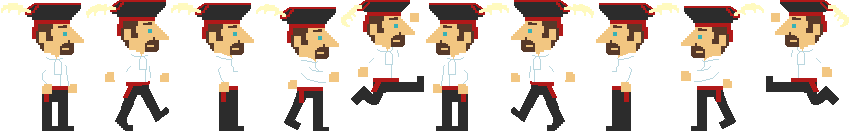
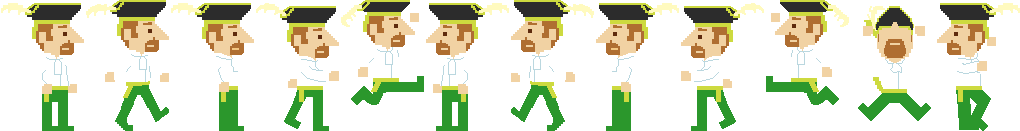
lots of new art and stuff

diff --git a/src/game.ts b/src/game.ts
@@ -4,6 +4,7 @@ import { Platform } from './objects/platform'
 import { Player } from './objects/player'
 import { WSAEINTR } from 'constants';
 import { CannonBall } from './objects/cannonBall';
+import { MainMenu } from '.mainMenu.ts';
 
 const sceneConfig: Phaser.Types.Scenes.SettingsConfig = {
   active: false,
@@ -67,7 +68,7 @@ export class GameScene extends Phaser.Scene {
   private pipes: Phaser.Physics.Arcade.StaticGroup;
   private water: Phaser.Physics.Arcade.Sprite;
   private playerHit: boolean;
-  private pow: Phaser.Physics.Arcade.Sprite;
+  private chest: Phaser.Physics.Arcade.Sprite;
   private powEnemy: Phaser.Physics.Arcade.Sprite;
 
   constructor() {
@@ -80,7 +81,7 @@ export class GameScene extends Phaser.Scene {
       'src/assets/player.png',
       { frameWidth: 83, frameHeight: 131, spacing: 2 });
     this.load.spritesheet('platformPlank',
-      'src/assets/planksquash_SpriteSheet.png',
+      'src/assets/planksquash2_SpriteSheet.png',
       { frameWidth: 32, frameHeight: 32 });
     this.load.spritesheet('cannonBall',
       'src/assets/CannonballSpriteSheet.png',
@@ -89,6 +90,8 @@ export class GameScene extends Phaser.Scene {
       { frameWidth: 83, frameHeight: 12, spacing: 2 });
     this.load.spritesheet('water', 'src/assets/waterSpritesheet.png',
       { frameWidth: 512, frameHeight: 256, spacing: 0 });
+      this.load.spritesheet('chest', 'src/assets/ChestSprites.png',
+      { frameWidth: 64, frameHeight: 61, spacing: 1 });
 
     this.load.spritesheet('octopusPink', 'src/assets/OctoSpritePink.png',
       { frameWidth: 64, frameHeight: 64, spacing: 2 });
@@ -165,11 +168,11 @@ export class GameScene extends Phaser.Scene {
     waterBody.setAllowGravity(false);
 
     //Pow water
-    this.pow = this.physics.add.sprite(200, LEVEL1_Y, 'pow');
-    this.pow.setScale(2);
-    var powBody: Phaser.Physics.Arcade.Body = <Phaser.Physics.Arcade.Body>this.pow.body;
-    powBody.setAllowGravity(false);
-    this.pow.body.immovable = true;
+    this.chest = this.physics.add.sprite(600, LEVEL1_Y, 'chest');
+    //this.chest.setScale(2);
+    var chestBody: Phaser.Physics.Arcade.Body = <Phaser.Physics.Arcade.Body>this.chest.body;
+    chestBody.setAllowGravity(false);
+    this.chest.body.immovable = true;
 
     //Pow enemey
     this.powEnemy = this.physics.add.sprite(1000, LEVEL3_Y - 40, 'pow');
@@ -210,7 +213,7 @@ export class GameScene extends Phaser.Scene {
     // collider between play and platforms
     this.physics.add.collider(this.player, this.platforms, moveWall, null, this);
     //collider between player and pow
-    this.physics.add.collider(this.player, this.pow, powFunc, null, this);
+    this.physics.add.collider(this.player, this.chest, chestFunc, null, this);
     //collider between player and enemyPow
     this.physics.add.collider(this.player, this.powEnemy, this.powEnemyFunc, null, this);
     // collider between player and water
@@ -298,6 +301,7 @@ export class GameScene extends Phaser.Scene {
     }
     else {
       if (this.water.y > 4300) {
+        this.chest.play('chestClosed', true);
         ifPow = false;
       }
       this.water.setVelocityY(100);
@@ -353,7 +357,7 @@ export class GameScene extends Phaser.Scene {
     // platform anims
     this.anims.create({
       key: 'deform',
-      frames: this.anims.generateFrameNumbers('platformPlank', { start: 0, end: 4 }),
+      frames: this.anims.generateFrameNumbers('platformPlank', { start: 0, end: 6 }),
       frameRate: 30
     });
 
@@ -399,12 +403,41 @@ export class GameScene extends Phaser.Scene {
       frameRate: 20,
     });
 
+    this.anims.create({
+      key: 'playerDie',
+      frames: [{ key: 'dude', frame: 10 }],
+      delay: 5000,
+      frameRate: 20,
+    });
+
+    this.anims.create({
+      key: 'playerWin',
+      frames: [{ key: 'dude', frame: 11 }],
+      delay: 5000,
+      frameRate: 20,
+    });
+
     // canonBall anims
     this.anims.create({
       key: 'rotate',
       frames: this.anims.generateFrameNumbers('cannonBall', { start: 0, end: 7 }),
       frameRate: 10,
       repeat: -1
+    });
+
+    // chest anims
+    this.anims.create({
+      key: 'chestOpen',
+      frames: this.anims.generateFrameNumbers('chest', { start: 0, end: 1 }),
+      frameRate: 10,
+      repeat: 0
+    });
+
+    this.anims.create({
+      key: 'chestClosed',
+      frames: this.anims.generateFrameNumbers('chest', { start: 1, end: 0 }),
+      frameRate: 10,
+      repeat: 0
     });
 
     // water anims
@@ -744,9 +777,10 @@ function GenPlatforms(platforms: Phaser.Physics.Arcade.StaticGroup) {
   }
 }
 
-function powFunc(player: Phaser.Physics.Arcade.Sprite, pow: Phaser.Physics.Arcade.Sprite) {
+function chestFunc(player: Phaser.Physics.Arcade.Sprite, chest: Phaser.Physics.Arcade.Sprite) {
   if (ifPow == false)
     ifPow = true;
+    chest.anims.play('chestOpen', true);
 }
 
 function playerMovement(cursors: Phaser.Types.Input.Keyboard.CursorKeys, player: Player, playerHit: boolean) {

diff --git a/src/mainMenu.ts b/src/mainMenu.ts
@@ -1,0 +1,42 @@
+const sceneConfig: Phaser.Types.Scenes.SettingsConfig = {
+    active: false,
+    visible: false,
+    key: 'MainMenu',
+};
+
+export class MainMenu extends Phaser.Scene {
+    private skyLayer: Array<Phaser.GameObjects.Image>;
+    private background: Phaser.GameObjects.Image;
+    private mainMenuText: Phaser.GameObjects.Text;
+
+    constructor() {
+        super(sceneConfig);
+    }
+
+    public preload() {
+        this.load.image('SkyLayer', 'src/assets/MainMenu/Sky_Layer.png');
+    }
+
+    public create() {
+        this.skyLayer = new Array();
+
+        //Sky Layer
+        this.skyLayer.push(this.add.image(0, 0, 'SkyLayer'));
+
+        var i: number;
+        for (i = 0; i < this.skyLayer.length; i++) {
+            this.skyLayer[i].setOrigin(0, 0);
+        }
+
+        //Init ScoreSystem
+        //this.mainMenuText = this.add.text(50, 3250, 'Score: 0', { fontSize: '32px', fill: '#fff' });
+
+        //Camera Creation
+        //this.cameras.main.setBounds(0, 0, this.background.width, this.background.height);
+        //this.cameras.main.setViewport(0, 0, 1920, 1080);
+    }
+
+    public update() {
+        this.input.keyboard.on('keydown', function (event) { console.log('key press') });
+    }
+}
